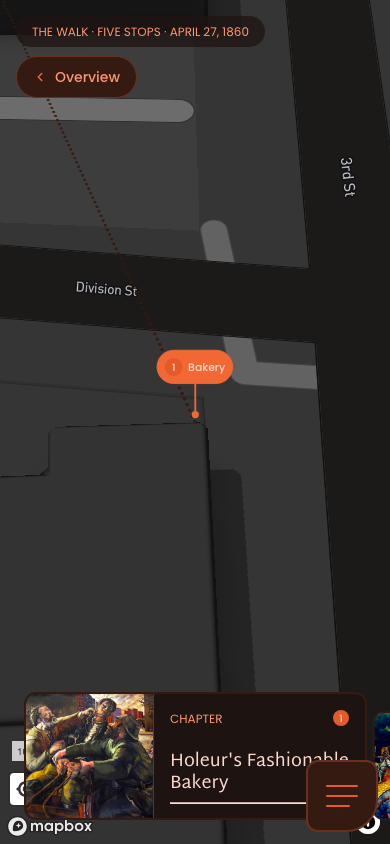
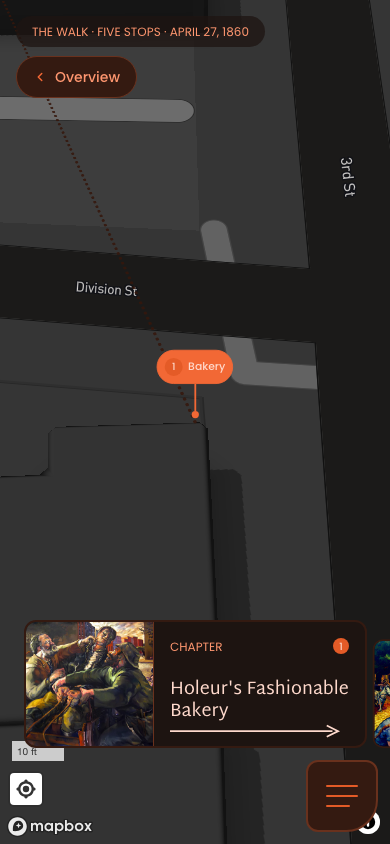
Motion review fixes: touch-cuts-to-destination on all flights (mousedown/touchstart — pointerdown never fires in GL), map shell server-reserved (CLS 0.6362→0.0012, probe-verified), overview fits all pills at every viewport (zoom capped at approved 15.25), mini-player truncation, audio play() promise

Changed region(s): [[0.0615, 0.7085, 0.8923, 0.9858], [0.9231, 0.7393, 1.0, 0.9858], [0.4923, 0.4313, 0.5846, 0.4621]]

diff --git a/src/components/TroyMap.tsx b/src/components/TroyMap.tsx
@@ -166,11 +166,12 @@ export default function TroyMap({ stops, baseUrl }: Props) {
     return () => window.removeEventListener("resize", onResize);
   }, [setMarkers]);
 
-  /** The approved overview on desktop; on narrow screens, the same tilt but
-   * framed to fit all five pills (QA: fixed 15.25 clipped stops at 390). */
+  /** The approved tilt, framed so all five pills fit at any viewport: fit
+   * bounds, capped at the approved zoom 15.25 (wide screens render the
+   * approved overview exactly; narrow ones pull back just enough). */
   const overviewCamera = useCallback(() => {
     const map = mapRef.current;
-    if (!map || window.innerWidth >= 640) return OVERVIEW;
+    if (!map) return OVERVIEW;
     const b = new mapboxgl.LngLatBounds();
     stops.forEach((s) => b.extend(s.coordinates));
     const cam = map.cameraForBounds(b, {
@@ -180,7 +181,7 @@ export default function TroyMap({ stops, baseUrl }: Props) {
     return cam
       ? {
           center: cam.center as [number, number],
-          zoom: cam.zoom as number,
+          zoom: Math.min(cam.zoom as number, OVERVIEW.zoom),
           pitch: OVERVIEW.pitch,
           bearing: OVERVIEW.bearing,
         }
@@ -352,14 +353,34 @@ export default function TroyMap({ stops, baseUrl }: Props) {
           map.easeTo({ ...target, duration: 3500, essential: true });
         }
       }
-      // One skip rule for every arrival flight: touch = cut (guardrail F1).
-      // The same first touch also clears the hint — it must never eat a tap.
-      const skip = () => {
-        map.stop();
+      // One skip rule for every arrival flight (guardrail F1): the first
+      // touch CUTS to the destination — never strands the camera mid-air.
+      // (Mapbox GL emits mousedown/touchstart, not pointerdown.)
+      const flightTarget = arriving
+        ? {
+            center: stops[deepIdx].coordinates,
+            zoom: 20,
+            pitch: OVERVIEW.pitch,
+            bearing: OVERVIEW.bearing,
+          }
+        : overviewCamera();
+      let cutDone = false;
+      const cut = () => {
+        if (cutDone) return;
+        cutDone = true;
+        if (map.isEasing()) {
+          map.stop();
+          map.jumpTo(flightTarget);
+        }
         setHintOpen(false);
       };
-      map.once("pointerdown", skip);
-      map.once("wheel", skip);
+      map.once("mousedown", cut);
+      map.once("touchstart", cut);
+      map.once("wheel", cut);
+      // Once the flight lands naturally, disarm the cut
+      map.once("idle", () => {
+        cutDone = true;
+      });
 
       // First visit hint (M8)
       if (!sessionStorage.getItem("cnwm-map-hint") && !arriving) {
@@ -477,7 +498,7 @@ export default function TroyMap({ stops, baseUrl }: Props) {
   }
 
   return (
-    <div className="map-shell relative h-[100dvh] w-full">
+    <div className="relative h-full w-full bg-primary-2">
       <div ref={container} className="map-canvas absolute inset-0" />
 
       {/* 1860 lens (M7) — Mark Priest's map of Troy, in the approved frame */}
@@ -523,7 +544,7 @@ export default function TroyMap({ stops, baseUrl }: Props) {
       {/* Hint card (M8) — parked above the doors, never eats a map tap:
           the container passes pointers through; only the X is interactive */}
       {hintOpen && (
-        <div className="pointer-events-none absolute bottom-24 left-1/2 z-20 w-max max-w-[86vw] -translate-x-1/2 sm:bottom-28">
+        <div className="pointer-events-none absolute bottom-44 left-1/2 z-20 w-max max-w-[86vw] -translate-x-1/2 sm:bottom-32">
           <div className="frame pointer-events-auto flex items-center gap-3 bg-primary-3 py-2 pr-2 pl-4">
             <p className="type-label">Drag to explore · Tap a stop</p>
             <button

diff --git a/src/components/AudioStory.tsx b/src/components/AudioStory.tsx
@@ -157,9 +157,12 @@ export default function AudioStory({
     const a = audioRef.current;
     if (!a) return;
     if (a.paused) {
-      a.play();
-      setPlaying(true);
-      setMiniLatched(true);
+      a.play()
+        .then(() => {
+          setPlaying(true);
+          setMiniLatched(true);
+        })
+        .catch(() => setPlaying(false));
     } else {
       a.pause();
       setPlaying(false);
@@ -178,9 +181,12 @@ export default function AudioStory({
     seekTo(timings[timingIndex].start + 0.01);
     const a = audioRef.current;
     if (a && a.paused) {
-      a.play();
-      setPlaying(true);
-      setMiniLatched(true);
+      a.play()
+        .then(() => {
+          setPlaying(true);
+          setMiniLatched(true);
+        })
+        .catch(() => setPlaying(false));
     }
   };
 
@@ -365,10 +371,10 @@ export default function AudioStory({
               <div className="flex flex-row items-center justify-between">
                 <div className="flex flex-row items-center space-x-2">
                   {playButton(true)}
-                  <div>
-                    <p className="text-[16px] font-semibold text-primary-12 uppercase">{label}</p>
+                  <div className="min-w-0">
+                    <p className="truncate text-[16px] font-semibold text-primary-12 uppercase">{label}</p>
                     <p
-                      className="text-[11px] font-normal text-primary-11"
+                      className="max-w-[8.5rem] truncate text-[11px] font-normal text-primary-11"
                       style={{ fontFamily: "var(--font-poppins)" }}
                     >
                       {subtitle}
